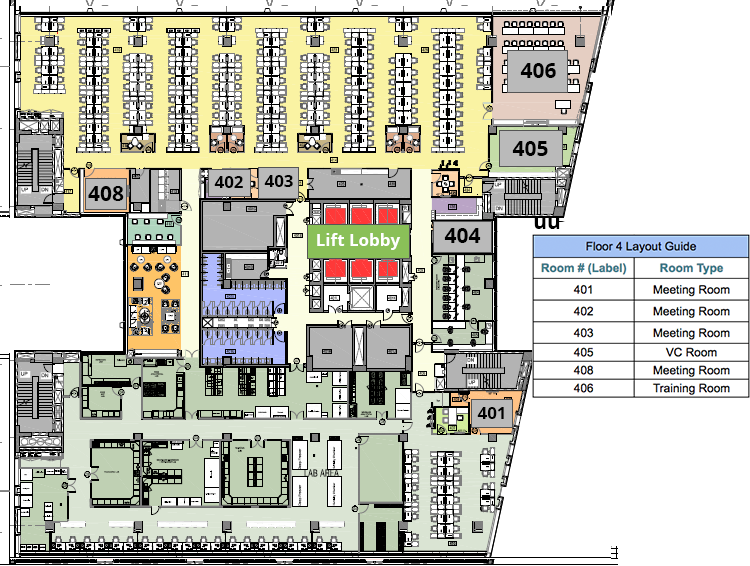
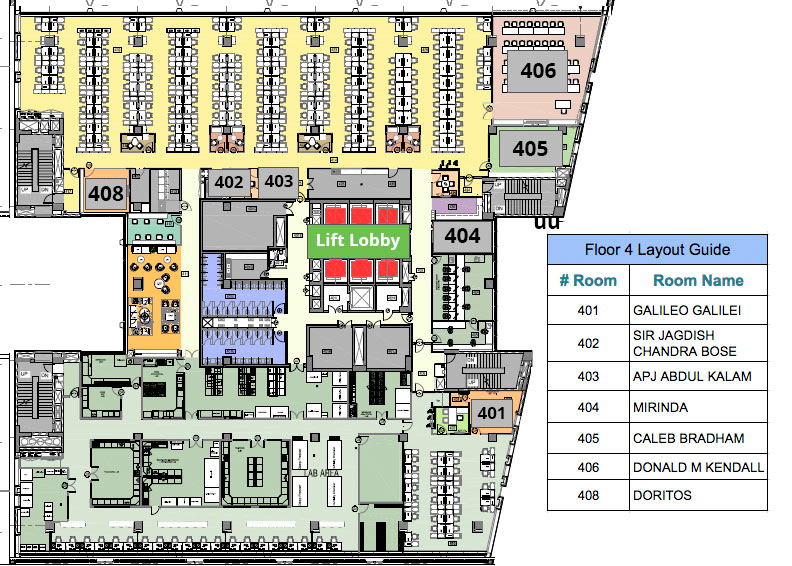
added new floor images

diff --git a/floor-plans-3.html b/floor-plans-3.html
@@ -80,7 +80,7 @@
         <h6></h6>
 
         <div class="row">
-            <img src="img/3rd.jpg" alt="" width="100%">
+            <img src="img/3rd.png" alt="" width="100%">
         </div>
 
         <!--<div class="row">-->

diff --git a/floor-plans-4.html b/floor-plans-4.html
@@ -80,7 +80,7 @@
         <h6></h6>
 
         <div class="row">
-            <img src="img/4th.jpg" alt="" width="100%">
+            <img src="img/4th.png" alt="" width="100%">
         </div>
 
         <!--<div class="row">-->

diff --git a/floor-plans-5.html b/floor-plans-5.html
@@ -80,7 +80,7 @@
         <h6></h6>
 
         <div class="row">
-            <img src="img/5th.jpg" alt="" width="100%">
+            <img src="img/5th.png" alt="" width="100%">
         </div>
 
         <!--<div class="row">-->

diff --git a/floor-plans-6.html b/floor-plans-6.html
@@ -80,7 +80,7 @@
         <h6></h6>
 
         <div class="row">
-            <img src="img/6th.jpg" alt="" width="100%">
+            <img src="img/6th.png" alt="" width="100%">
         </div>
 
         <!--<div class="row">-->
